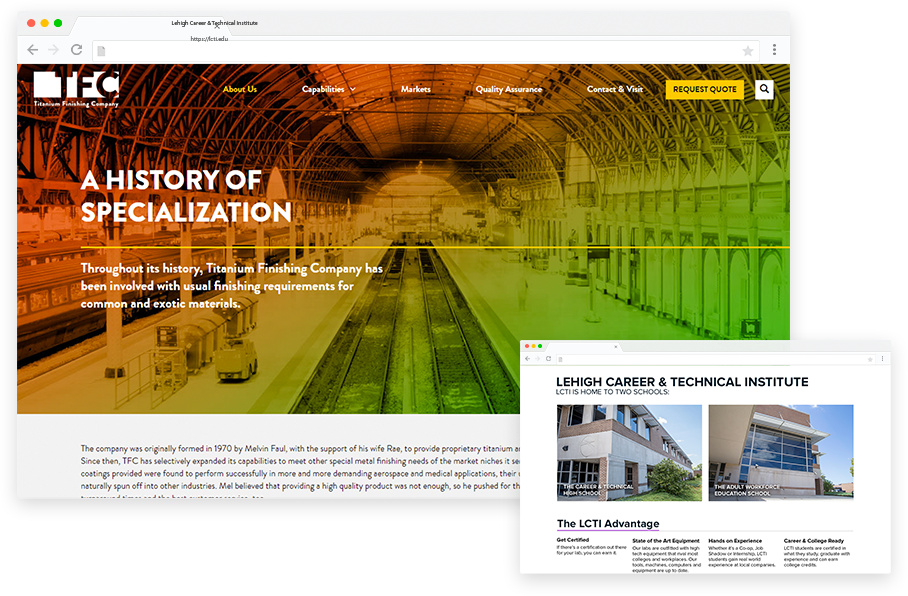
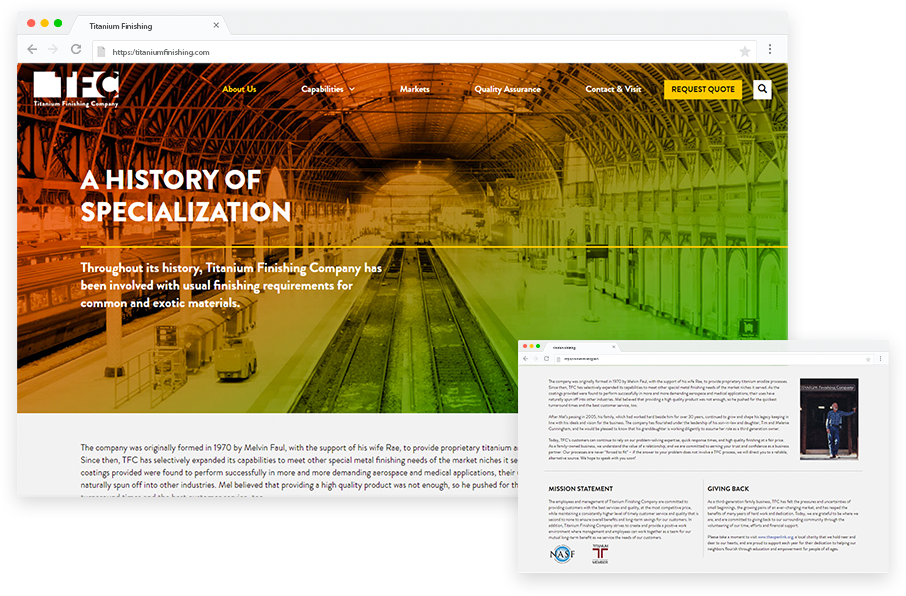
Titanium case study dev

diff --git a/src/css/style.css b/src/css/style.css
@@ -58,6 +58,10 @@ hr {
   max-width: 120px;
   z-index: 999; }
 
+@media (min-width: 768px) {
+  .mb-md-12 {
+    margin-bottom: 12em; } }
+
 .no-padding {
   padding: 0; }
 
@@ -1086,8 +1090,11 @@ ul {
 @media (min-width: 768px) {
   .map {
     position: absolute;
-    right: 0;
-    width: 48%; } }
+    right: 0; } }
+
+.map--image {
+  margin-left: auto;
+  overflow: hidden; }
 
 .typography {
   display: -webkit-box;

diff --git a/src/scss/layout/_casestudies.scss b/src/scss/layout/_casestudies.scss
@@ -133,7 +133,11 @@
     @include media('md') {
         position: absolute;
         right: 0;
-        width: 48%;
+    }
+
+    &--image {
+        margin-left: auto;
+        overflow: hidden;
     }
 }
 

diff --git a/src/scss/base/_global.scss b/src/scss/base/_global.scss
@@ -60,6 +60,13 @@ hr {
 	z-index: 999;
 }
 
+.mb-md-12 {
+
+	@include media('md') {
+		margin-bottom: 12em;
+	}
+}
+
 .no-padding {
 	padding: 0;
 }

diff --git a/src/single-case_studies-titanium.php b/src/single-case_studies-titanium.php
@@ -30,12 +30,12 @@
 			</div>
 		</section>
 
-        <section class="position__relative mb-5">
+        <section class="position__relative mb-md-12">
             <div class="container">
                 <div class="row">
                     <div class="col-12 col-md-6">
                         <figure>
-                            <img class="img-fluidd" src="<?php echo get_template_directory_uri(); ?>/assets/work/titanium/titanium-macbook.png" alt="">
+                            <img class="img-fluid" src="<?php echo get_template_directory_uri(); ?>/assets/work/titanium/titanium-macbook.png" alt="">
                         </figure>
                     </div>
                     <div class="w-100"></div>
@@ -46,7 +46,7 @@
                     </div>
                     <div class="map">
                         <figure class="map--img">
-                            <img class="img-fluidd" src="<?php echo get_template_directory_uri(); ?>/assets/work/titanium/map-overlay.jpg" alt="">
+                            <img class="img-fluid" src="<?php echo get_template_directory_uri(); ?>/assets/work/titanium/map-overlay.jpg" alt="">
                         </figure>
                     </div>
                 </div>
@@ -76,7 +76,7 @@
                 </div>
             </div>
         </section>
-		<section class="container my-5">
+		<section class="container my-5 py-3">
             <div class="row">
                 <div class="col-12 mb-3">
                     <h5>Typography</h5>
@@ -95,7 +95,7 @@
                     </div>
                 </div>
                 <div class="col-12 col-md-9">
-                    <img class="img-fluidd" src="<?php echo get_template_directory_uri(); ?>/assets/work/titanium/typography-screen.png">
+                    <img class="img-fluid" src="<?php echo get_template_directory_uri(); ?>/assets/work/titanium/typography-screen.png">
                 </div>
             </div>
             <!-- Finish color pallete. Use flex box solution -->
